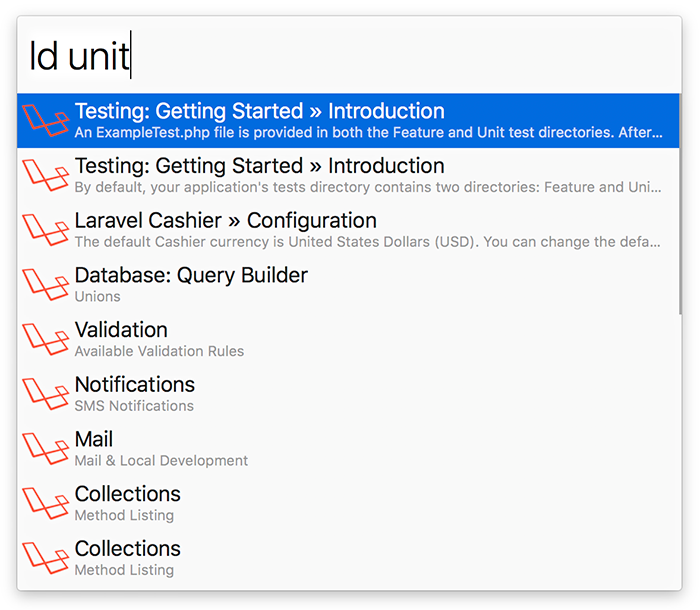
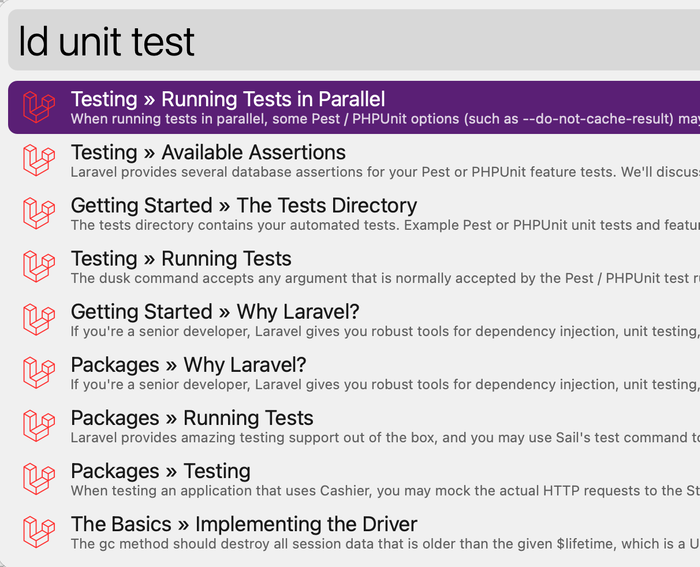
Preparation for v0.4.0 release (#31)
* Update screenshot

* Update configuration settings UI use/instructions.

Now uses the Configuration Builder (which Alfred auto-displays in Configure... mode), instead of the Environment Variables approach which is more for workflow-editors.
This results in the slightly simpler UI.

* Version-stamping to v0.4.0

diff --git a/laravel.php b/laravel.php
@@ -34,7 +34,7 @@ if (empty($subtext)) {
 $workflow = new Workflow;
 $algolia = SearchClient::create('E3MIRNPJH5', '1fa3a8fec06eb1858d6ca137211225c0');
 
-UserAgent::addCustomUserAgent('Alfred Workflow', '0.3.3');
+UserAgent::addCustomUserAgent('Alfred Workflow', '0.4.0');
 
 $index = $algolia->initIndex('laravel');
 $search = $index->search($query, ['facetFilters' => [

diff --git a/README.md b/README.md
@@ -1,12 +1,12 @@
 # Laravel Docs Workflow for Alfred
 
-An ultra-fast Laravel docs search workflow for [Alfred 3+](https://www.alfredapp.com).
+An ultra-fast Laravel docs search workflow for [Alfred 5+](https://www.alfredapp.com).
 
 ![Screenshot](screenshot.png)
 
 ## Installation
 
-1. [Download the latest version](https://github.com/tillkruss/alfred-laravel-docs/releases/download/v0.3.3/Laravel.Docs.alfredworkflow)
+1. [Download the latest version](https://github.com/tillkruss/alfred-laravel-docs/releases/download/v0.4.0/Laravel.Docs.alfredworkflow)
 2. Install the workflow by double-clicking the `.alfredworkflow` file
 3. You can add the workflow to a category, then click "Import" to finish importing. You'll now see the workflow listed in the left sidebar of your Workflows preferences pane.
 
@@ -26,5 +26,5 @@ Either press `⌘Y` to Quick Look the result, or press `<enter>` to open it in y
 By default this workflow searches the `master` branch of the docs. However, you can change that to any branch listed on [laravel.com/docs](https://laravel.com/docs).
 
 1. Go to the _Laravel Docs_ workflow in your Alfred preferences
-2. Click the `[𝝌]` icon
-3. Set the value of `branch` variable to your desired version (e.g. `9.x`)
+2. Right-click and choose "Configure..."
+3. Set the value of `branch` variable to your desired version (e.g. `12.x`)
